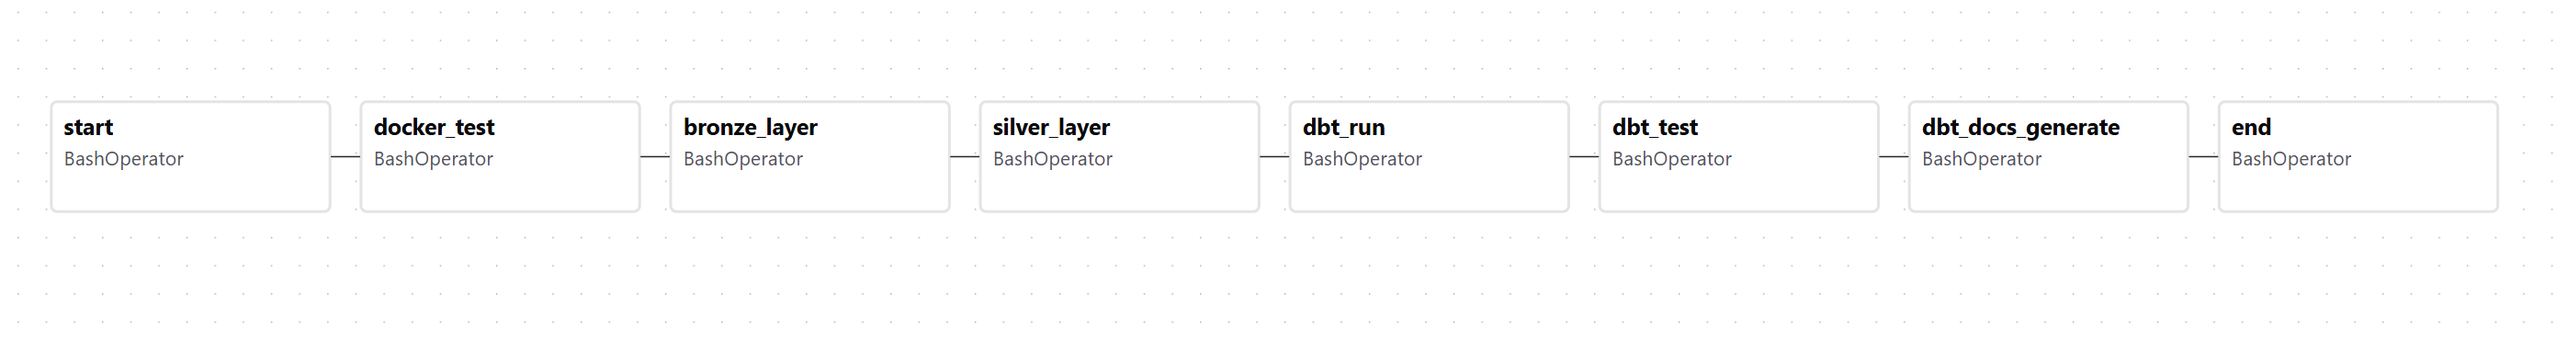
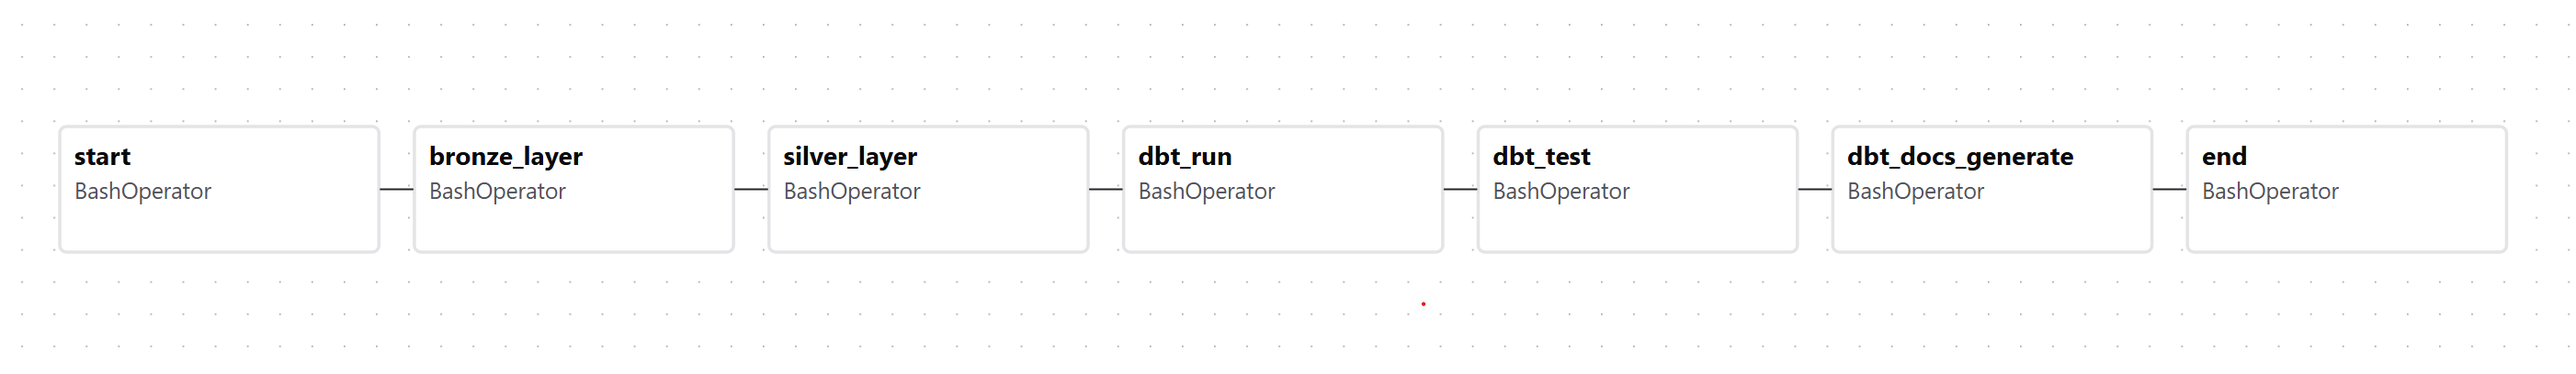
remove docker test from DAG and change screenshot

diff --git a/airflow/dags/bike_platform.py b/airflow/dags/bike_platform.py
@@ -14,8 +14,6 @@ with DAG(
 ) as dag:
     start = BashOperator(task_id="start", bash_command="echo START")
 
-    docker_test = BashOperator(task_id="docker_test", bash_command="docker ps")
-
     bronze = BashOperator(
         task_id="bronze_layer",
         bash_command=(
@@ -47,13 +45,4 @@ with DAG(
 
     end = BashOperator(task_id="end", bash_command="echo END")
 
-    (
-        start
-        >> docker_test
-        >> bronze
-        >> silver
-        >> dbt_run
-        >> dbt_test
-        >> dbt_docs_generate
-        >> end
-    )
+    (start >> bronze >> silver >> dbt_run >> dbt_test >> dbt_docs_generate >> end)
